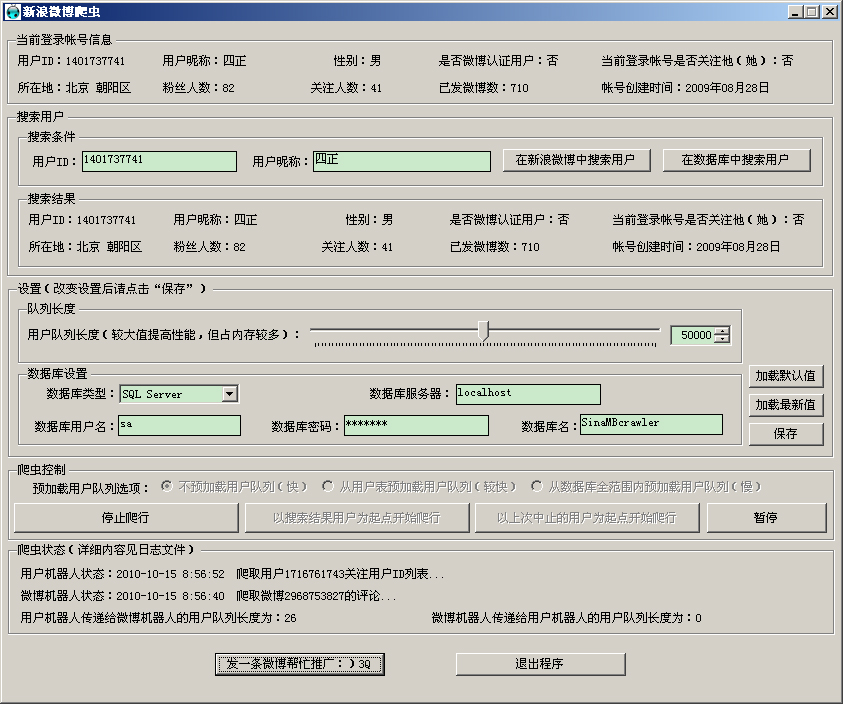
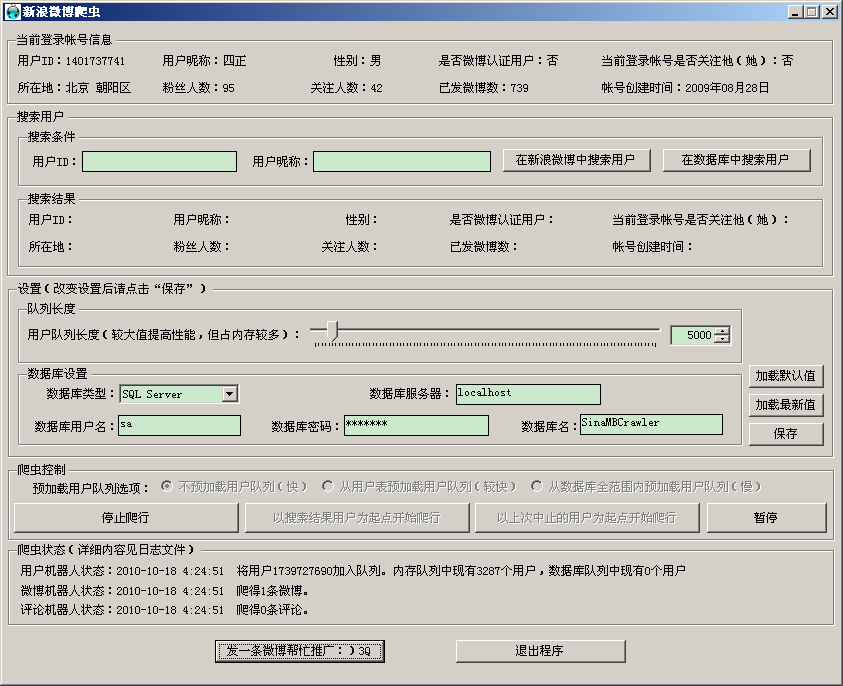
改进界面更新机制

Changed region(s): [[0.0, 0.0, 1.0, 0.9796]]

diff --git a/branches/3threads/Sinawler/Sinawler/frmMain.cs b/branches/3threads/Sinawler/Sinawler/frmMain.cs
@@ -603,8 +603,8 @@ namespace Sinawler
             if (iTurn == 0)
             {
                 lblUserMessage.Text = robotUser.LogMessage;
-                iTurn = 1;
             }
+            iTurn = 1;
         }
 
         private void UserCompleteWork ( Object sender, RunWorkerCompletedEventArgs e )
@@ -661,8 +661,8 @@ namespace Sinawler
             if (iTurn == 1)
             {
                 lblStatusMessage.Text = robotStatus.LogMessage;
-                iTurn = 2;
             }
+            iTurn = 2;
         }
 
         private void StatusCompleteWork ( Object sender, RunWorkerCompletedEventArgs e )
@@ -716,8 +716,8 @@ namespace Sinawler
             if (iTurn == 2)
             {
                 lblCommentMessage.Text = robotComment.LogMessage;
-                iTurn = 0;
             }
+            iTurn = 0;
         }
 
         private void CommentCompleteWork ( Object sender, RunWorkerCompletedEventArgs e )

diff --git a/branches/3threads/Sinawler/Sinawler/Properties/AssemblyInfo.cs b/branches/3threads/Sinawler/Sinawler/Properties/AssemblyInfo.cs
@@ -30,6 +30,6 @@ using System.Resources;
 //      内部版本号
 //      修订号
 //
-[assembly: AssemblyVersion( "3.3.0.1" )]
-[assembly: AssemblyFileVersion( "3.3.0.1" )]
+[assembly: AssemblyVersion( "3.3.0.2" )]
+[assembly: AssemblyFileVersion( "3.3.0.2" )]
 [assembly: NeutralResourcesLanguageAttribute("zh-CHS")]
